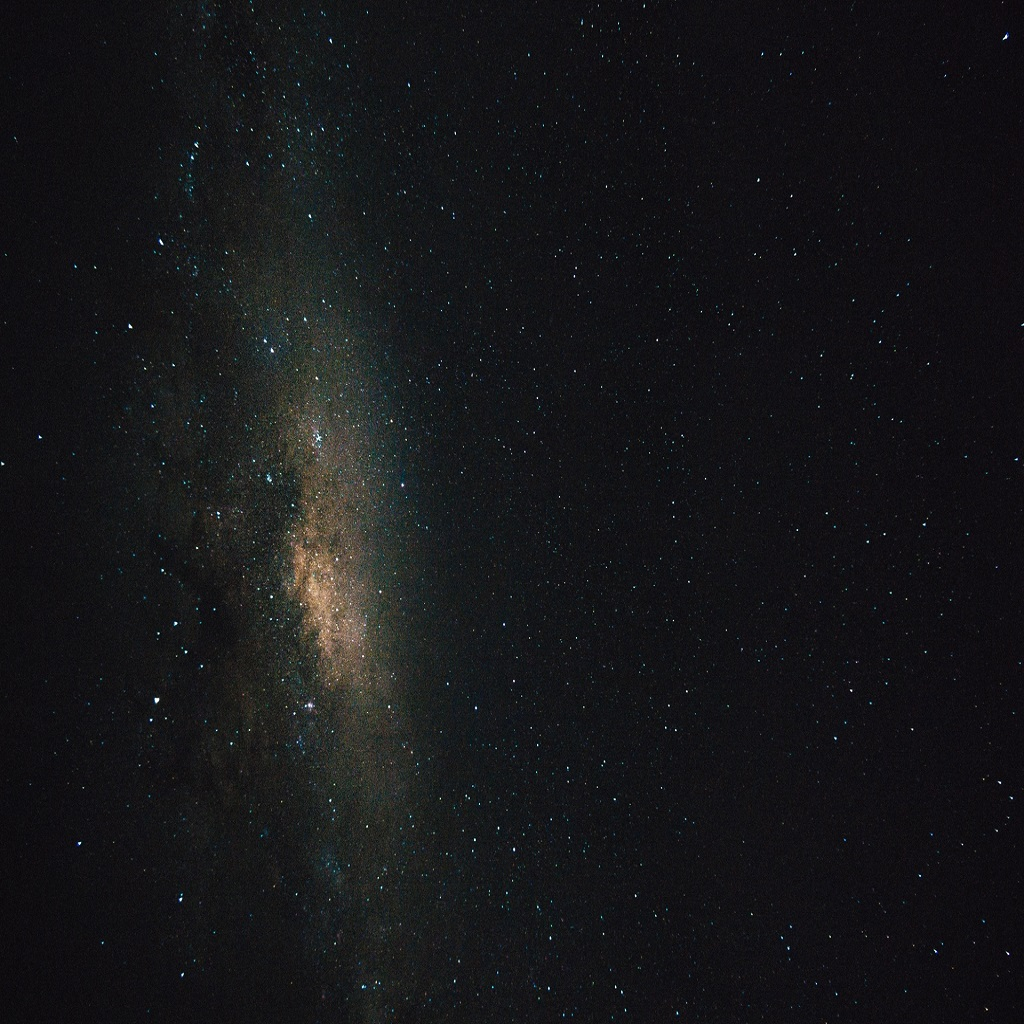
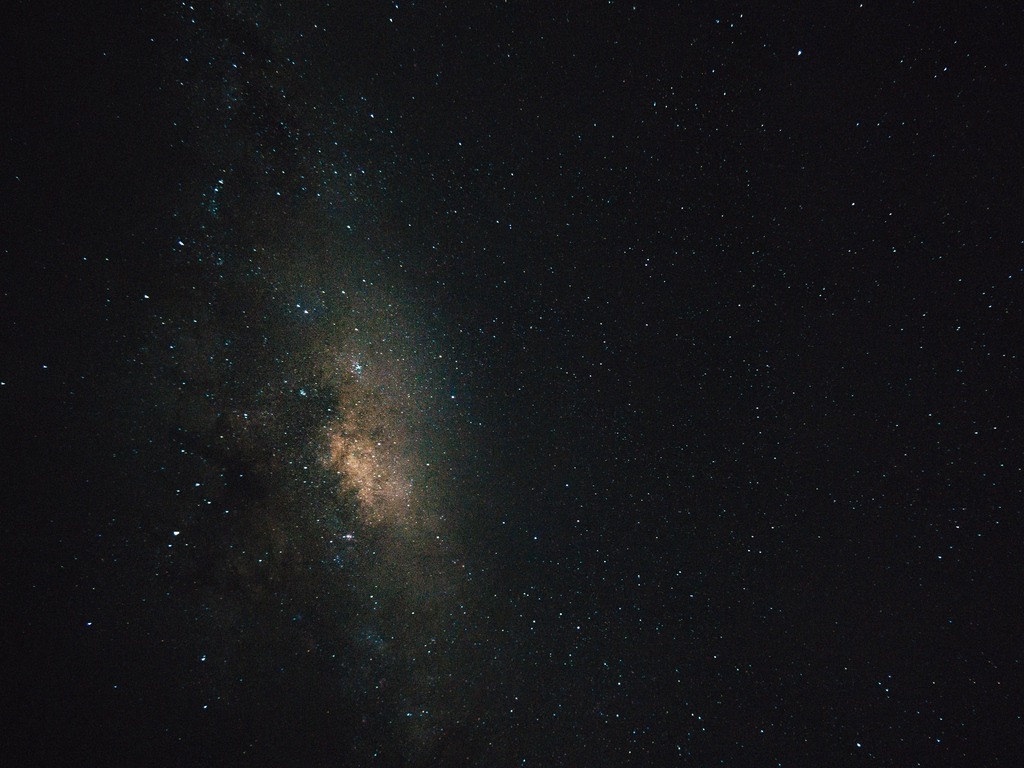
Add new background, button "exit"

diff --git a/android/src/ru/geekbrains/stargame/AndroidLauncher.java b/android/src/ru/geekbrains/stargame/AndroidLauncher.java
@@ -4,13 +4,12 @@ import android.os.Bundle;
 
 import com.badlogic.gdx.backends.android.AndroidApplication;
 import com.badlogic.gdx.backends.android.AndroidApplicationConfiguration;
-import ru.geekbrains.stargame.StarGame;
 
 public class AndroidLauncher extends AndroidApplication {
 	@Override
 	protected void onCreate (Bundle savedInstanceState) {
 		super.onCreate(savedInstanceState);
 		AndroidApplicationConfiguration config = new AndroidApplicationConfiguration();
-		initialize(new StarGame(), config);
+		initialize(new Star2DGame(), config);
 	}
 }
